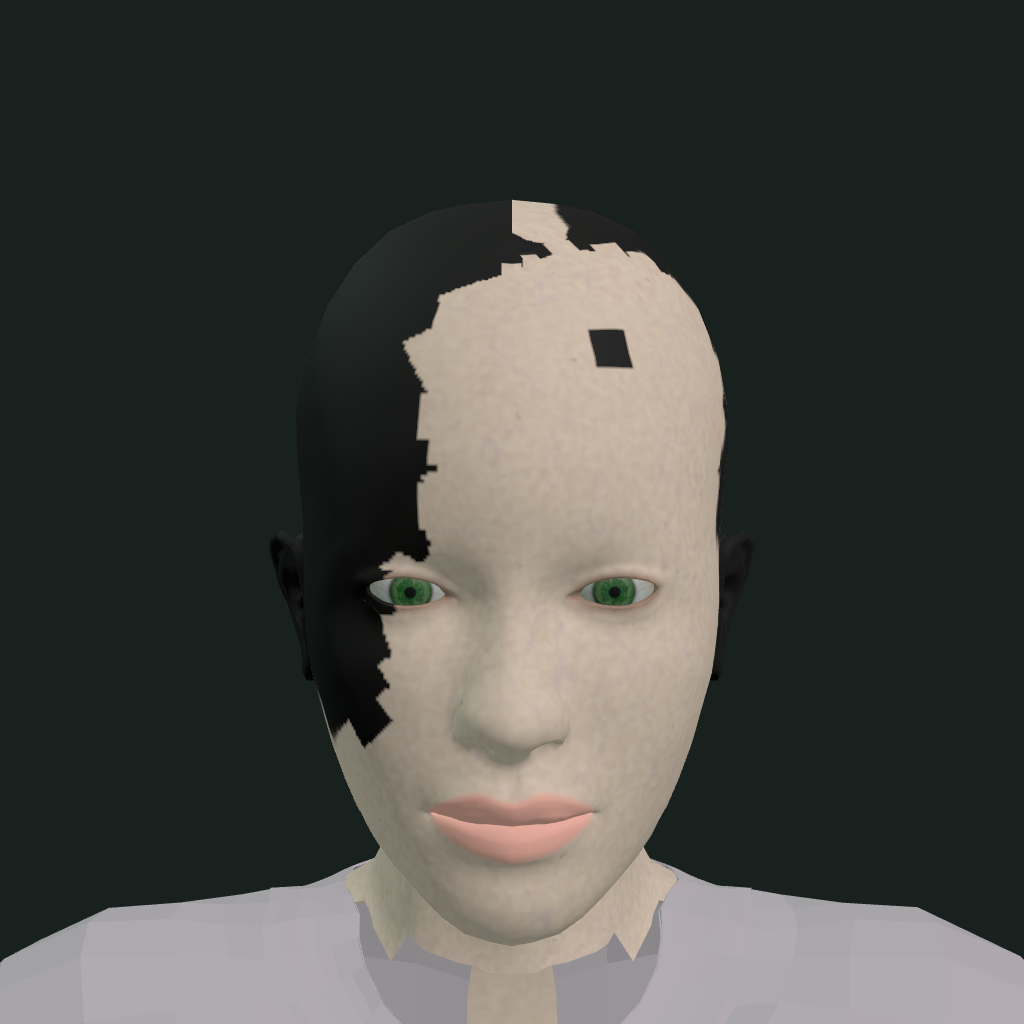
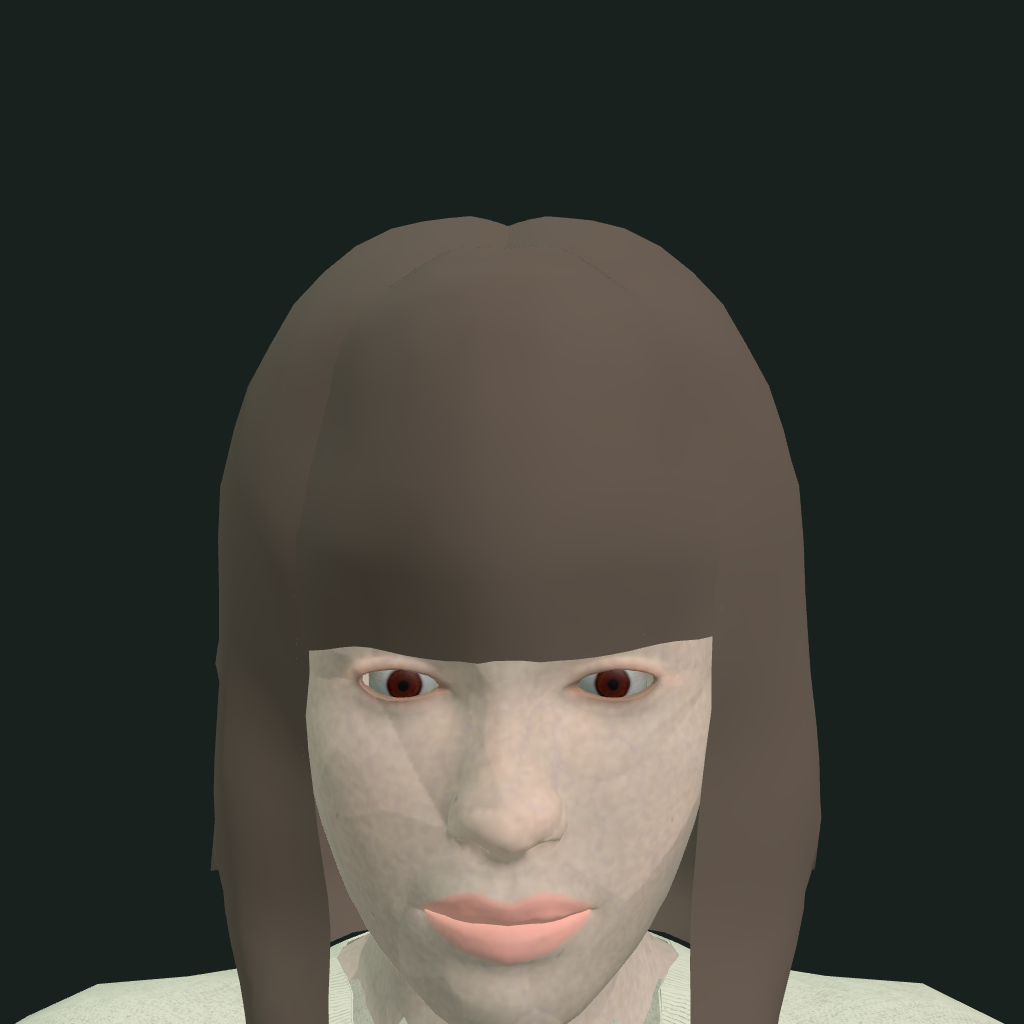
fix(#394): exclude fitted hair from the head-box silhouette profile, keep it in the box
deriveHeadBoxFromPoints returned null for mpfb-ob-patient-aisha after #381
fitted her bob: the hair spans 82.9-100% of body height and masks the neck
constriction (neckMin 0.1195 >= 0.85*skullMax 0.1114 -> PATH 5 of 6). The
hair mesh is the sole cause - removing it restores derivation (A/B'd).

Fitted hair is not body: hair meshes (the /hair/i rule the fitted-hair
contracts use) are excluded from the silhouette profile the neck cut is
derived from, but stay in the point set the head box is computed over, so
a head crop still contains the hair (box max.y now 1.6881 = the hair top,
vs 1.6669 body top).

- head-box-from-geometry: options.silhouettePoints (defaults to points);
  isFittedHairMeshName exported for the runtime and file-side callers
- isolated-subject-focus (runtime lab): split points/silhouettePoints in
  deriveHeadFocusBounds, checking mesh name, node name, and geometry name
- head-focus-derivation.test + head-focus-inspection: same split, both
  halves verified by the contract (16/16 green; anny rails unchanged)
- regenerated head-focus crop/probe evidence records the fixed framing
  (neck 1.4631, matchedVertexCount 6869, head_box kind)

diff --git a/tools/openclinxr/evidence/head-focus-derivation.test.ts b/tools/openclinxr/evidence/head-focus-derivation.test.ts
@@ -3,7 +3,11 @@ import { dirname, join, resolve as pathResolve } from "node:path";
 import { fileURLToPath } from "node:url";
 import { NodeIO } from "@gltf-transform/core";
 import { beforeAll, describe, expect, it } from "vitest";
-import { deriveHeadBoxFromPoints, type Vec3 } from "../../../apps/ui-xr/src/head-box-from-geometry.js";
+import {
+  deriveHeadBoxFromPoints,
+  isFittedHairMeshName,
+  type Vec3,
+} from "../../../apps/ui-xr/src/head-box-from-geometry.js";
 
 /**
  * #358 — the head-focus station must frame the head on EVERY rail, not only MPFB.
@@ -46,25 +50,38 @@ const MIN_HEAD_VERTEX_FRACTION = 0.005;
 
 const EYE_MESH_RE = /eyes|iris|cornea|sclera/i;
 
-function worldPoints(doc: import("@gltf-transform/core").Document): Vec3[] {
-  const out: Vec3[] = [];
+/**
+ * #394: fitted hair is not body — hair meshes feed the head BOX (the crop must
+ * contain the hair) but never the silhouette profile (hair masks the neck
+ * constriction). Returns both point sets from the same traversal.
+ */
+function worldPoints(doc: import("@gltf-transform/core").Document): {
+  points: Vec3[];
+  silhouettePoints: Vec3[];
+} {
+  const points: Vec3[] = [];
+  const silhouettePoints: Vec3[] = [];
   for (const node of doc.getRoot().listNodes()) {
     const mesh = node.getMesh();
     if (!mesh) continue;
+    const isHair = isFittedHairMeshName(mesh.getName() ?? "")
+      || isFittedHairMeshName(node.getName() ?? "");
     const wm = node.getWorldMatrix();
     for (const prim of mesh.listPrimitives()) {
       const pos = prim.getAttribute("POSITION")?.getArray();
       if (!pos) continue;
       for (let i = 0; i + 2 < pos.length; i += 3) {
-        out.push({
+        const p: Vec3 = {
           x: wm[0] * Number(pos[i]) + wm[4] * Number(pos[i + 1]) + wm[8] * Number(pos[i + 2]) + wm[12],
           y: wm[1] * Number(pos[i]) + wm[5] * Number(pos[i + 1]) + wm[9] * Number(pos[i + 2]) + wm[13],
           z: wm[2] * Number(pos[i]) + wm[6] * Number(pos[i + 1]) + wm[10] * Number(pos[i + 2]) + wm[14],
-        });
+        };
+        points.push(p);
+        if (!isHair) silhouettePoints.push(p);
       }
     }
   }
-  return out;
+  return { points, silhouettePoints };
 }
 
 function bodyBoundsOf(pts: ReadonlyArray<Vec3>): { min: Vec3; max: Vec3 } {
@@ -102,15 +119,18 @@ function headContractFor(file: string, label: string): void {
   describe(`head box derives from the body bounds on the ${label} rail (#358)`, () => {
     let doc: import("@gltf-transform/core").Document;
     let pts: Vec3[];
+    let silhouette: Vec3[];
     let body: { min: Vec3; max: Vec3 };
     beforeAll(async () => {
       doc = await new NodeIO().read(join(REPO_ROOT, GENERATED, file));
-      pts = worldPoints(doc);
+      const split = worldPoints(doc);
+      pts = split.points;
+      silhouette = split.silhouettePoints;
       body = bodyBoundsOf(pts);
     });
 
     it("derives a head box from the body geometry alone", () => {
-      const head = deriveHeadBoxFromPoints(pts);
+      const head = deriveHeadBoxFromPoints(pts, { silhouettePoints: silhouette });
       expect(head, "deriveHeadBoxFromPoints returned null on a standing humanoid").not.toBeNull();
       const height = head!.box.max.y - head!.box.min.y;
       const bodyHeight = body.max.y - body.min.y;
@@ -121,7 +141,7 @@ function headContractFor(file: string, label: string): void {
     });
 
     it("cuts the head at the neck, which sits in the anatomical neck band", () => {
-      const head = deriveHeadBoxFromPoints(pts);
+      const head = deriveHeadBoxFromPoints(pts, { silhouettePoints: silhouette });
       expect(head).not.toBeNull();
       const bodyHeight = body.max.y - body.min.y;
       const neckFraction = (head!.neckPosition - body.min.y) / bodyHeight;
@@ -132,7 +152,7 @@ function headContractFor(file: string, label: string): void {
     });
 
     it("frames a real region — the head box reaches the top of the body and holds a real vertex share", () => {
-      const head = deriveHeadBoxFromPoints(pts);
+      const head = deriveHeadBoxFromPoints(pts, { silhouettePoints: silhouette });
       expect(head).not.toBeNull();
       expect(head!.box.max.y, "the head box does not reach the top of the body").toBeCloseTo(body.max.y, 2);
       expect(
@@ -142,7 +162,7 @@ function headContractFor(file: string, label: string): void {
     });
 
     it("the head box does NOT span the shoulders (the #354 whole-body failure mode)", () => {
-      const head = deriveHeadBoxFromPoints(pts);
+      const head = deriveHeadBoxFromPoints(pts, { silhouettePoints: silhouette });
       expect(head).not.toBeNull();
       const headWidth = head!.box.max.x - head!.box.min.x;
       const bodyWidth = body.max.x - body.min.x;

diff --git a/tools/openclinxr/evidence/head-focus-inspection.ts b/tools/openclinxr/evidence/head-focus-inspection.ts
@@ -32,7 +32,12 @@ import { fileURLToPath } from "node:url";
 import { NodeIO, type Document, type Mesh } from "@gltf-transform/core";
 import { chromium, type Browser, type Page } from "playwright";
 import { spawnPortlessDevServer, type PortlessDevServer } from "./lib/portless-server.js";
-import { deriveHeadBoxFromPoints, type HeadBoxGeometry, type Vec3 } from "../../../apps/ui-xr/src/head-box-from-geometry.js";
+import {
+  deriveHeadBoxFromPoints,
+  isFittedHairMeshName,
+  type HeadBoxGeometry,
+  type Vec3,
+} from "../../../apps/ui-xr/src/head-box-from-geometry.js";
 import { projectPixelSpan } from "./mpfb-eyes-inspection.js";
 
 const HERE = path.dirname(fileURLToPath(import.meta.url));
@@ -61,25 +66,36 @@ export const HEAD_FOCUS_SUBJECTS = [
 
 type Bounds = { min: Vec3; max: Vec3 };
 
-function worldPoints(doc: Document): Vec3[] {
-  const out: Vec3[] = [];
+/**
+ * World points of every mesh, plus the body-only silhouette subset.
+ * Fitted hair is not body (#394): hair feeds the head BOX (the crop must
+ * contain it) but never the silhouette profile (hair masks the neck
+ * constriction) — same split the runtime lab and the contract use.
+ */
+function worldPoints(doc: Document): { points: Vec3[]; silhouettePoints: Vec3[] } {
+  const points: Vec3[] = [];
+  const silhouettePoints: Vec3[] = [];
   for (const node of doc.getRoot().listNodes()) {
     const mesh = node.getMesh();
     if (!mesh) continue;
+    const isHair = isFittedHairMeshName(mesh.getName() ?? "")
+      || isFittedHairMeshName(node.getName() ?? "");
     const wm = node.getWorldMatrix();
     for (const prim of mesh.listPrimitives()) {
       const pos = prim.getAttribute("POSITION")?.getArray();
       if (!pos) continue;
       for (let i = 0; i + 2 < pos.length; i += 3) {
-        out.push({
+        const p: Vec3 = {
           x: wm[0] * Number(pos[i]) + wm[4] * Number(pos[i + 1]) + wm[8] * Number(pos[i + 2]) + wm[12],
           y: wm[1] * Number(pos[i]) + wm[5] * Number(pos[i + 1]) + wm[9] * Number(pos[i + 2]) + wm[13],
           z: wm[2] * Number(pos[i]) + wm[6] * Number(pos[i + 1]) + wm[10] * Number(pos[i + 2]) + wm[14],
-        });
+        };
+        points.push(p);
+        if (!isHair) silhouettePoints.push(p);
       }
     }
   }
-  return out;
+  return { points, silhouettePoints };
 }
 
 function aabbOf(pts: ReadonlyArray<Vec3>): Bounds {
@@ -268,10 +284,12 @@ export async function writeHeadFocusPreFix(options?: { cwd?: string; outputRoot?
   const subjects: HeadFocusPreFix["subjects"] = [];
   for (const s of HEAD_FOCUS_SUBJECTS) {
     const doc = await io.read(path.join(cwd, s.glb));
-    const pts = worldPoints(doc);
+    const split = worldPoints(doc);
+    const pts = split.points;
+    const silhouettePoints = split.silhouettePoints;
     const bodyBounds = aabbOf(pts);
     const bodyHeight = bodyBounds.max.y - bodyBounds.min.y;
-    const head = deriveHeadBoxFromPoints(pts) as HeadBoxGeometry | null;
+    const head = deriveHeadBoxFromPoints(pts, { silhouettePoints }) as HeadBoxGeometry | null;
     if (!head) {
       throw new Error(`${s.rail} ${s.glb}: the geometry-derived head box is null — cannot build the before-column`);
     }

diff --git a/apps/ui-xr/src/head-box-from-geometry.ts b/apps/ui-xr/src/head-box-from-geometry.ts
@@ -51,6 +51,26 @@ export type HeadBoxGeometry = {
   radiusProfile: number[];
 };
 
+export type DeriveHeadBoxOptions = {
+  /**
+   * Points the silhouette profile (neck-cut derivation) is computed from.
+   * Defaults to `points`. Fitted hair is not body (#394): hair masks the neck
+   * constriction, so hair points belong ONLY in `points` — the box must still
+   * contain the hair — and must NOT be in `silhouettePoints`.
+   */
+  silhouettePoints?: ReadonlyArray<Vec3>;
+};
+
+/**
+ * Fitted hair is not body (#394): a hair mesh masks the neck constriction in
+ * the silhouette profile, so the head-box derivation must exclude it. The
+ * MakeClothes embed names hair meshes with "hair" (`embed_library_hair.py`),
+ * and this is the same /hair/i rule the fitted-hair contracts use.
+ */
+export function isFittedHairMeshName(name: string): boolean {
+  return /hair/i.test(name);
+}
+
 /** Focus=head is for humanoids; smaller subjects refuse. */
 const MIN_BODY_EXTENT_METERS = 0.4;
 /** Candidate region = topmost 40% of the body extent (head + neck + shoulders). */
@@ -69,9 +89,17 @@ const MIN_SKULL_RADIUS_METERS = 0.02;
 /**
  * Derive the head box from raw mesh vertices. Returns null when the subject has
  * no derivable head (refusal, never silent fallback).
+ *
+ * `silhouettePoints` (options) may exclude fitted hair from the profile — hair
+ * masks the neck constriction — while `points` keeps it in the box, so a crop
+ * still contains the hair.
  */
-export function deriveHeadBoxFromPoints(points: ReadonlyArray<Vec3>): HeadBoxGeometry | null {
-  if (points.length < 200) return null;
+export function deriveHeadBoxFromPoints(
+  points: ReadonlyArray<Vec3>,
+  options?: DeriveHeadBoxOptions,
+): HeadBoxGeometry | null {
+  const silhouette = options?.silhouettePoints ?? points;
+  if (silhouette.length < 200) return null;
 
   let minX = Infinity;
   let minY = Infinity;
@@ -101,12 +129,12 @@ export function deriveHeadBoxFromPoints(points: ReadonlyArray<Vec3>): HeadBoxGeo
   const h1 = di === 2 ? 1 : 2;
   let c0 = 0;
   let c1 = 0;
-  for (const p of points) {
+  for (const p of silhouette) {
     c0 += h0 === 0 ? p.x : p.y;
     c1 += h1 === 1 ? p.y : p.z;
   }
-  c0 /= points.length;
-  c1 /= points.length;
+  c0 /= silhouette.length;
+  c1 /= silhouette.length;
 
   // Candidate band: the topmost 40% of the body extent.
   const bandLo = (di === 0 ? minX : di === 1 ? minY : minZ) + BAND_TOP_FRACTION * bodyExtent;
@@ -117,7 +145,7 @@ export function deriveHeadBoxFromPoints(points: ReadonlyArray<Vec3>): HeadBoxGeo
   const radiusProfile = new Array<number>(SLICE_COUNT).fill(0);
   const coordOf = (p: Vec3): number => (di === 0 ? p.x : di === 1 ? p.y : p.z);
   const horizOf = (p: Vec3, axis: 0 | 1 | 2): number => (axis === 0 ? p.x : axis === 1 ? p.y : p.z);
-  for (const p of points) {
+  for (const p of silhouette) {
     const d = coordOf(p);
     if (d < bandLo || d > bandHi) continue;
     const idx = Math.min(SLICE_COUNT - 1, Math.max(0, Math.floor((d - bandLo) / sliceH)));

diff --git a/apps/ui-xr/src/isolated-subject-focus.ts b/apps/ui-xr/src/isolated-subject-focus.ts
@@ -23,7 +23,7 @@
 import type { Object3D } from "three";
 import { Box3, Mesh, Vector3 } from "three";
 import { computeMeshBounds } from "./camera-fit-to-bounds.js";
-import { deriveHeadBoxFromPoints } from "./head-box-from-geometry.js";
+import { deriveHeadBoxFromPoints, isFittedHairMeshName } from "./head-box-from-geometry.js";
 
 type Vec3Meters = { x: number; y: number; z: number };
 
@@ -121,7 +121,9 @@ function deriveEyeFocusBounds(root: Object3D): {
  * (`deriveHeadBoxFromPoints`, the same pure function the file-side inspection
  * uses). Works on every rail: MPFB, Anny (eye bones, zero eye geometry), and
  * the hm08 library bodies. Refuses (throws) when no head is derivable — never
- * falls back silently.
+ * falls back silently. Fitted hair is NOT body (#394): hair meshes are excluded
+ * from the silhouette profile (they mask the neck constriction) but stay in the
+ * box, so a head crop still contains the hair.
  */
 function deriveHeadFocusBounds(root: Object3D): {
   kind: "head_box";
@@ -132,18 +134,26 @@ function deriveHeadFocusBounds(root: Object3D): {
   derivation: string;
 } {
   const points: Array<{ x: number; y: number; z: number }> = [];
+  const silhouettePoints: Array<{ x: number; y: number; z: number }> = [];
   const point = new Vector3();
   root.updateMatrixWorld(true);
   root.traverse((object) => {
     if (!(object instanceof Mesh)) return;
     const position = object.geometry.getAttribute("position");
     if (!position) return;
+    // GLTFLoader overrides mesh.name with the NODE name and keeps the glTF MESH
+    // name on geometry.name — check both layers (same shape as the #354 eye path).
+    const isHair = isFittedHairMeshName(object.name)
+      || (typeof object.userData?.name === "string" && isFittedHairMeshName(object.userData.name))
+      || isFittedHairMeshName(object.geometry.name);
     for (let i = 0; i < position.count; i += 1) {
       point.fromBufferAttribute(position, i).applyMatrix4(object.matrixWorld);
-      points.push({ x: point.x, y: point.y, z: point.z });
+      const p = { x: point.x, y: point.y, z: point.z };
+      points.push(p);
+      if (!isHair) silhouettePoints.push(p);
     }
   });
-  const derived = deriveHeadBoxFromPoints(points);
+  const derived = deriveHeadBoxFromPoints(points, { silhouettePoints });
   if (!derived) {
     throw new Error(
       "focus=head unresolvable: no head-like region derivable from the body bounds "
